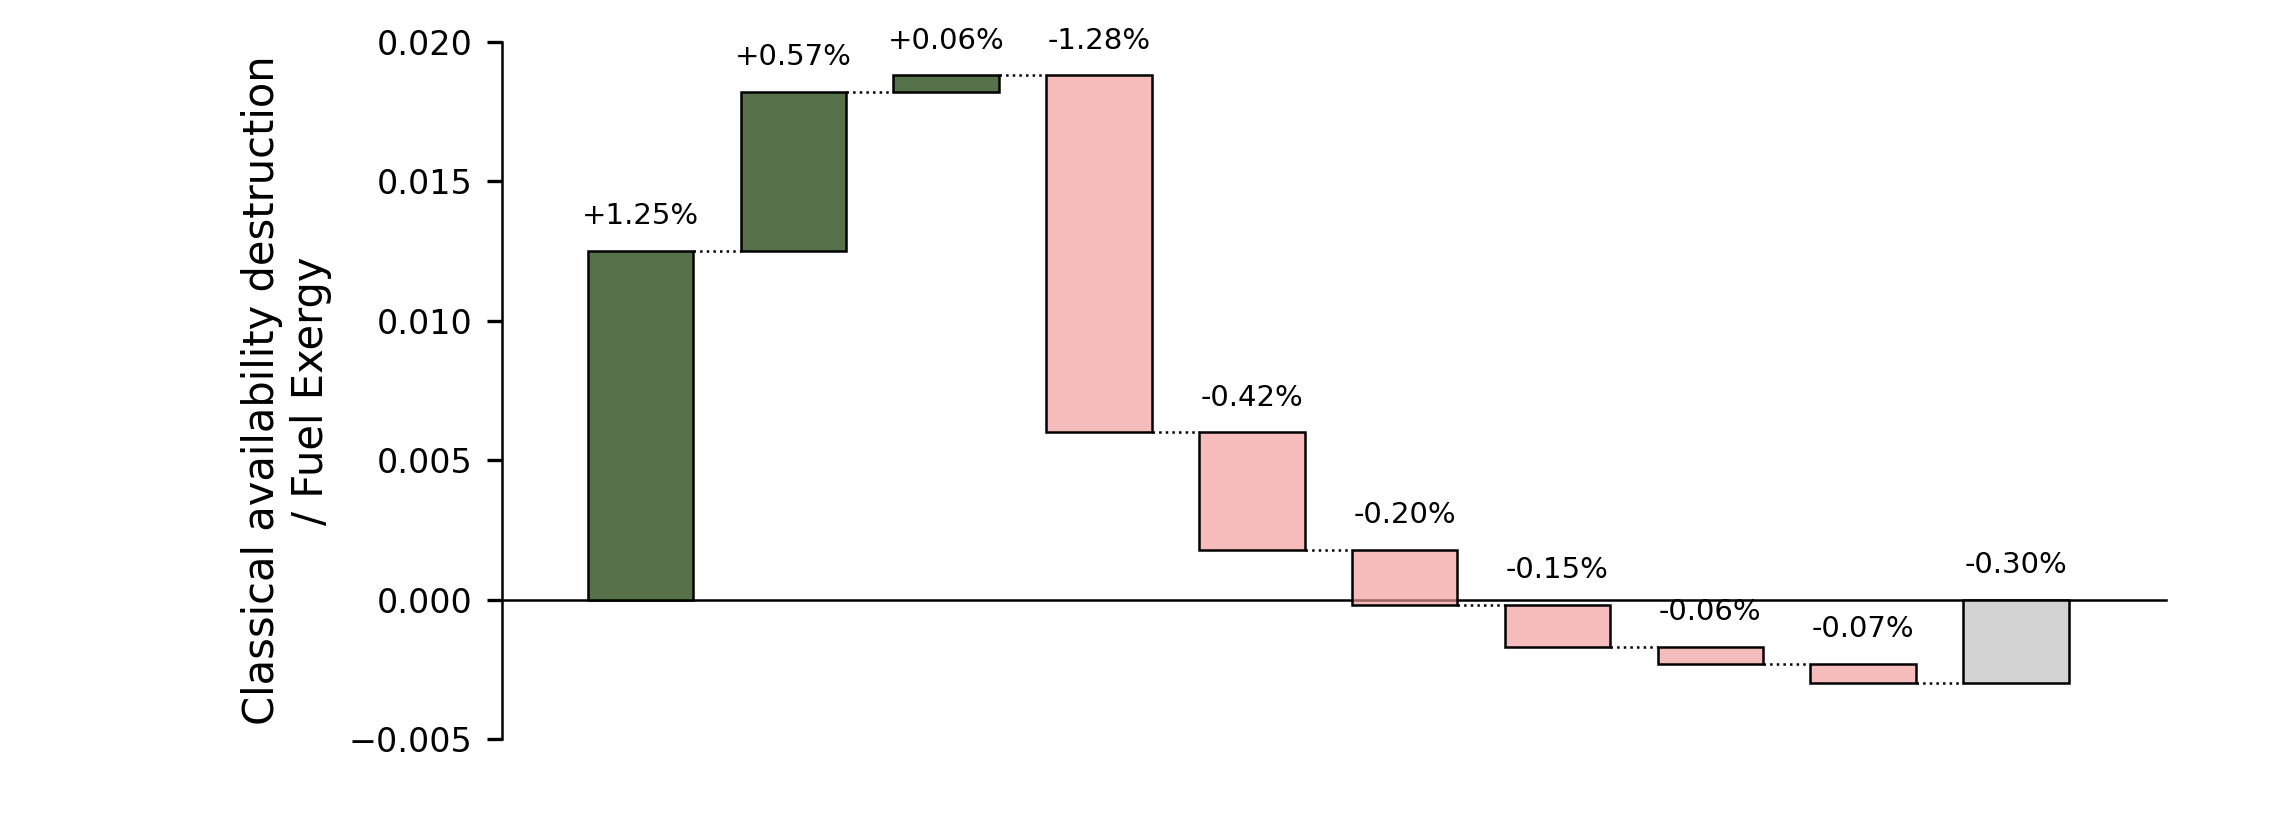
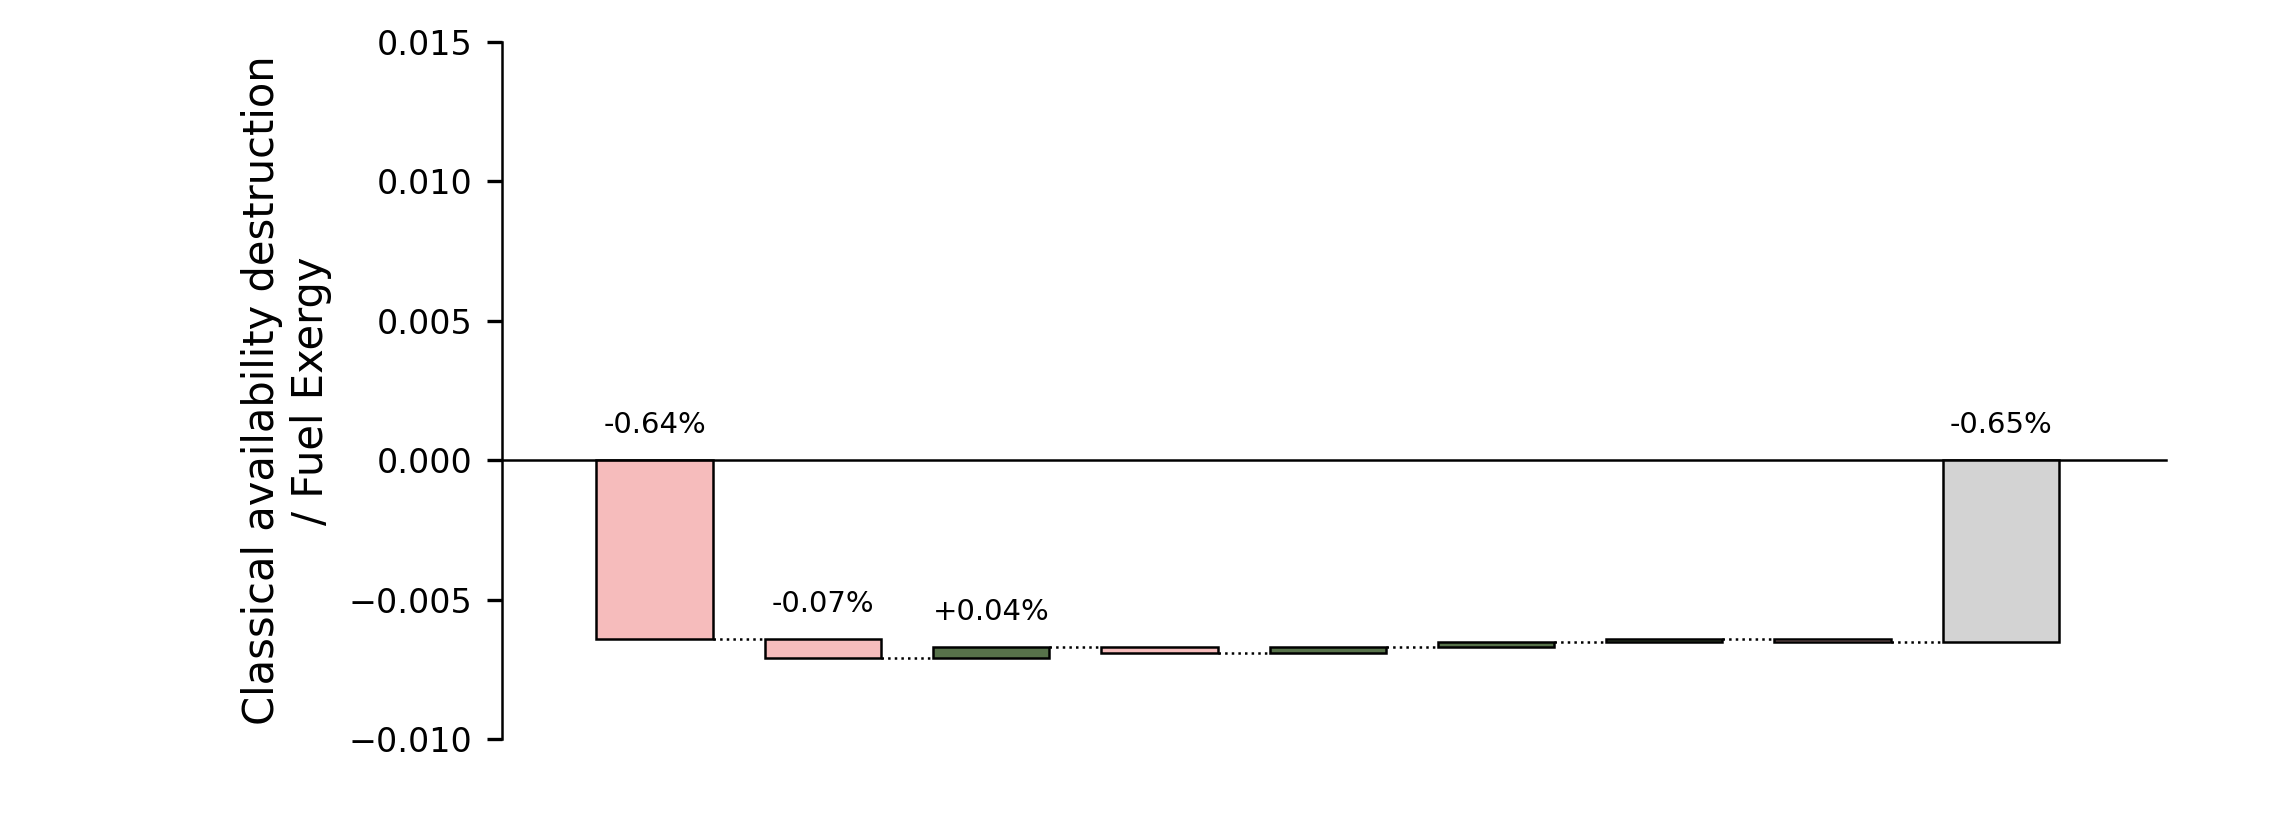
Show nacelle Thulin chart as deltas vs secondary cycle.
Reorder component steps, fix BP Nozzle/IC Noz mapping, add selective labels, and tighten nacelle y-axis limits.

diff --git a/analysis/paper_figures/ppt_bar_thulin_intc.py b/analysis/paper_figures/ppt_bar_thulin_intc.py
@@ -1,7 +1,10 @@
 """
-Thulin intercooling comparison: literature waterfall deltas (nacelle vs secondary cycle).
+Thulin intercooling comparison: literature waterfall deltas.
 
-Writes comp_nacelle.png and comp_second_cycle.png to Figs_current/.
+comp_second_cycle.png — secondary cycle vs bypass-cooling baseline.
+comp_nacelle.png — nacelle cycle relative to secondary cycle (component-wise delta).
+
+Writes PNGs to Figs_current/.
 """
 
 from __future__ import annotations
@@ -39,6 +42,7 @@ def _pp(value_percent_points: float) -> float:
 
 
 Y_LIMITS = (_pp(-0.5), _pp(2.0))
+NACELLE_Y_LIMITS = (-0.01, 0.015)  # tighter view for nacelle vs secondary deltas
 
 
 @dataclass(frozen=True)
@@ -63,17 +67,105 @@ class ThulinWaterfall:
             raise ValueError(f"benefits+penalties = {parts:.4f} % != net {self.net_pp:.4f} %")
 
 
-NACELLE = ThulinWaterfall(
-    benefits_pp=(1.25, 0.57, 0.06),
-    penalties_pp=(-1.28, -0.42, -0.20, -0.15, -0.06, -0.07),
-    net_pp=-0.30,
-)
+@dataclass(frozen=True)
+class ThulinDiffStep:
+    delta_pp: float
+    show_label: bool = False
 
+
+@dataclass(frozen=True)
+class ThulinDiffWaterfall:
+    """Ordered component deltas (nacelle minus secondary), omitting exact zeros."""
+
+    steps: tuple[ThulinDiffStep, ...]
+    net_pp: float
+
+    def waterfall_steps(self) -> list[tuple[float, str | tuple[float, float, float, float]]]:
+        return [
+            (_pp(s.delta_pp), BENEFIT_COLOR if s.delta_pp >= 0 else PENALTY_COLOR) for s in self.steps
+        ]
+
+    def step_label_texts(self) -> list[str]:
+        return [
+            format_step_label_percent_points(_pp(s.delta_pp)) if s.show_label else "" for s in self.steps
+        ]
+
+    def net_frac(self) -> float:
+        return _pp(self.net_pp)
+
+    def check_net(self) -> None:
+        parts = sum(s.delta_pp for s in self.steps)
+        if abs(parts - self.net_pp) > 1e-6:
+            raise ValueError(f"step sum = {parts:.4f} % != net {self.net_pp:.4f} %")
+
+
+# Secondary cycle vs bypass-cooling baseline (Thulin literature).
 SECOND_CYCLE = ThulinWaterfall(
     benefits_pp=(1.25, 0.59, 0.02),
     penalties_pp=(-0.64, -0.35, -0.22, -0.14, -0.07, -0.09),
     net_pp=0.35,
 )
+
+# Nacelle vs bypass-cooling baseline (reference tuples for subtraction).
+_NACELLE_BASE = ThulinWaterfall(
+    benefits_pp=(1.25, 0.57, 0.06),
+    penalties_pp=(-1.28, -0.42, -0.20, -0.15, -0.06, -0.07),
+    net_pp=-0.30,
+)
+
+# Penalty labels (same order as penalties_pp): IC, BP therm, BP jet mix, Core Exh therm,
+# BP Nozzle, turbomachinery (all). IC Noz & Exh is 0.00 pp and omitted.
+_PENALTY_NAMES = (
+    "Intercooler",
+    "BP exhaust thermal",
+    "BP jet mix",
+    "Core Exh therm",
+    "BP Nozzle",
+    "Turbomachinery",
+)
+_BENEFIT_NAMES = ("IC integ.", "Core jet mix", "Burner etc")
+
+
+def _component_deltas_pp(
+    nacelle: ThulinWaterfall,
+    secondary: ThulinWaterfall,
+) -> dict[str, float]:
+    deltas: dict[str, float] = {}
+    for name, n, s in zip(_BENEFIT_NAMES, nacelle.benefits_pp, secondary.benefits_pp, strict=True):
+        deltas[name] = n - s
+    for name, n, s in zip(_PENALTY_NAMES, nacelle.penalties_pp, secondary.penalties_pp, strict=True):
+        deltas[name] = n - s
+    deltas["IC Noz & Exh"] = 0.0
+    return deltas
+
+
+def _nacelle_vs_secondary_waterfall() -> ThulinDiffWaterfall:
+    deltas = _component_deltas_pp(_NACELLE_BASE, SECOND_CYCLE)
+    net_pp = _NACELLE_BASE.net_pp - SECOND_CYCLE.net_pp
+
+    # Drop exact zeros (IC integ. benefit and IC Noz & Exh are both 0.00 pp).
+    nonzero = {k: v for k, v in deltas.items() if abs(v) > 1e-9}
+
+    # Intercooler first, then remaining steps by decreasing |delta|.
+    ordered_names = ["Intercooler"]
+    rest = sorted(
+        (name for name in nonzero if name != "Intercooler"),
+        key=lambda name: abs(nonzero[name]),
+        reverse=True,
+    )
+    ordered_names.extend(rest)
+
+    steps = tuple(
+        ThulinDiffStep(
+            delta_pp=nonzero[name],
+            show_label=name in ("Intercooler", "BP exhaust thermal", "Burner etc"),
+        )
+        for name in ordered_names
+    )
+    return ThulinDiffWaterfall(steps=steps, net_pp=net_pp)
+
+
+NACELLE_VS_SECOND = _nacelle_vs_secondary_waterfall()
 
 
 def _fig_thulin_waterfall(data: ThulinWaterfall) -> plt.Figure:
@@ -92,6 +184,22 @@ def _fig_thulin_waterfall(data: ThulinWaterfall) -> plt.Figure:
     )
 
 
+def _fig_nacelle_vs_secondary(data: ThulinDiffWaterfall) -> plt.Figure:
+    data.check_net()
+    return fig_delta_waterfall(
+        data.waterfall_steps(),
+        data.net_frac(),
+        NET_COLOR,
+        ylabel=YLABEL,
+        figsize=FIGSIZE_10BAR,
+        y_tick_step=Y_TICK_STEP,
+        y_limits=NACELLE_Y_LIMITS,
+        show_arrows=False,
+        format_net_label=format_net_label_percent_points,
+        step_label_texts=data.step_label_texts(),
+    )
+
+
 def _save_figure(fig: plt.Figure, out_dir: Path, stem: str) -> Path:
     path = out_dir / f"{stem}.png"
     fig.savefig(path, dpi=300, facecolor="white")
@@ -103,10 +211,13 @@ def main() -> None:
     out_dir = Path(__file__).resolve().parent / OUT_DIR_NAME
     out_dir.mkdir(parents=True, exist_ok=True)
 
-    for data, stem in ((NACELLE, STEM_NACELLE), (SECOND_CYCLE, STEM_SECOND_CYCLE)):
-        fig = _fig_thulin_waterfall(data)
-        _save_figure(fig, out_dir, stem)
-        plt.close(fig)
+    fig_nacelle = _fig_nacelle_vs_secondary(NACELLE_VS_SECOND)
+    _save_figure(fig_nacelle, out_dir, STEM_NACELLE)
+    plt.close(fig_nacelle)
+
+    fig_second = _fig_thulin_waterfall(SECOND_CYCLE)
+    _save_figure(fig_second, out_dir, STEM_SECOND_CYCLE)
+    plt.close(fig_second)
 
 
 if __name__ == "__main__":

diff --git a/analysis/paper_figures/ppt_waterfall.py b/analysis/paper_figures/ppt_waterfall.py
@@ -189,6 +189,7 @@ def fig_delta_waterfall(
     y_limits: tuple[float, float] | None = None,
     format_step_label: Callable[[float], str] = format_step_label_fraction,
     format_net_label: Callable[[float], str] = format_net_label_fraction,
+    step_label_texts: list[str] | None = None,
 ) -> plt.Figure:
     fig, ax = plt.subplots(figsize=figsize, dpi=150)
     fig.patch.set_facecolor("white")
@@ -202,14 +203,22 @@ def fig_delta_waterfall(
     y_hi = 0.0
 
     step_labels: list[tuple[BarSpec, str]] = []
+    if step_label_texts is not None and len(step_label_texts) != len(waterfall_steps):
+        raise ValueError(
+            f"step_label_texts length {len(step_label_texts)} != waterfall steps {len(waterfall_steps)}"
+        )
 
-    for (delta, color), x in zip(waterfall_steps, xs[:-1], strict=True):
+    for i, ((delta, color), x) in enumerate(zip(waterfall_steps, xs[:-1], strict=True)):
         bottom, height = delta_bar_geom(cumul, delta)
         spec = BarSpec(x=x, bottom=bottom, height=height, width=BAR_WIDTH, color=color)
         if prev is not None:
             _draw_connector(ax, prev, spec, y=cumul)
         _draw_bar(ax, spec)
-        step_labels.append((spec, format_step_label(delta)))
+        if step_label_texts is not None:
+            label = step_label_texts[i]
+        else:
+            label = format_step_label(delta)
+        step_labels.append((spec, label))
         y_lo = min(y_lo, _bar_bottom(spec))
         y_hi = max(y_hi, _bar_top(spec))
         cumul += delta
@@ -242,7 +251,8 @@ def fig_delta_waterfall(
         if y_limits is None:
             y1 += label_off
         for spec, text in step_labels:
-            _draw_bar_label(ax, spec, text, label_off)
+            if text:
+                _draw_bar_label(ax, spec, text, label_off)
         _draw_bar_label(ax, net_spec, format_net_label(net_sum), label_off)
 
     style_axes_arrows_yticks(
